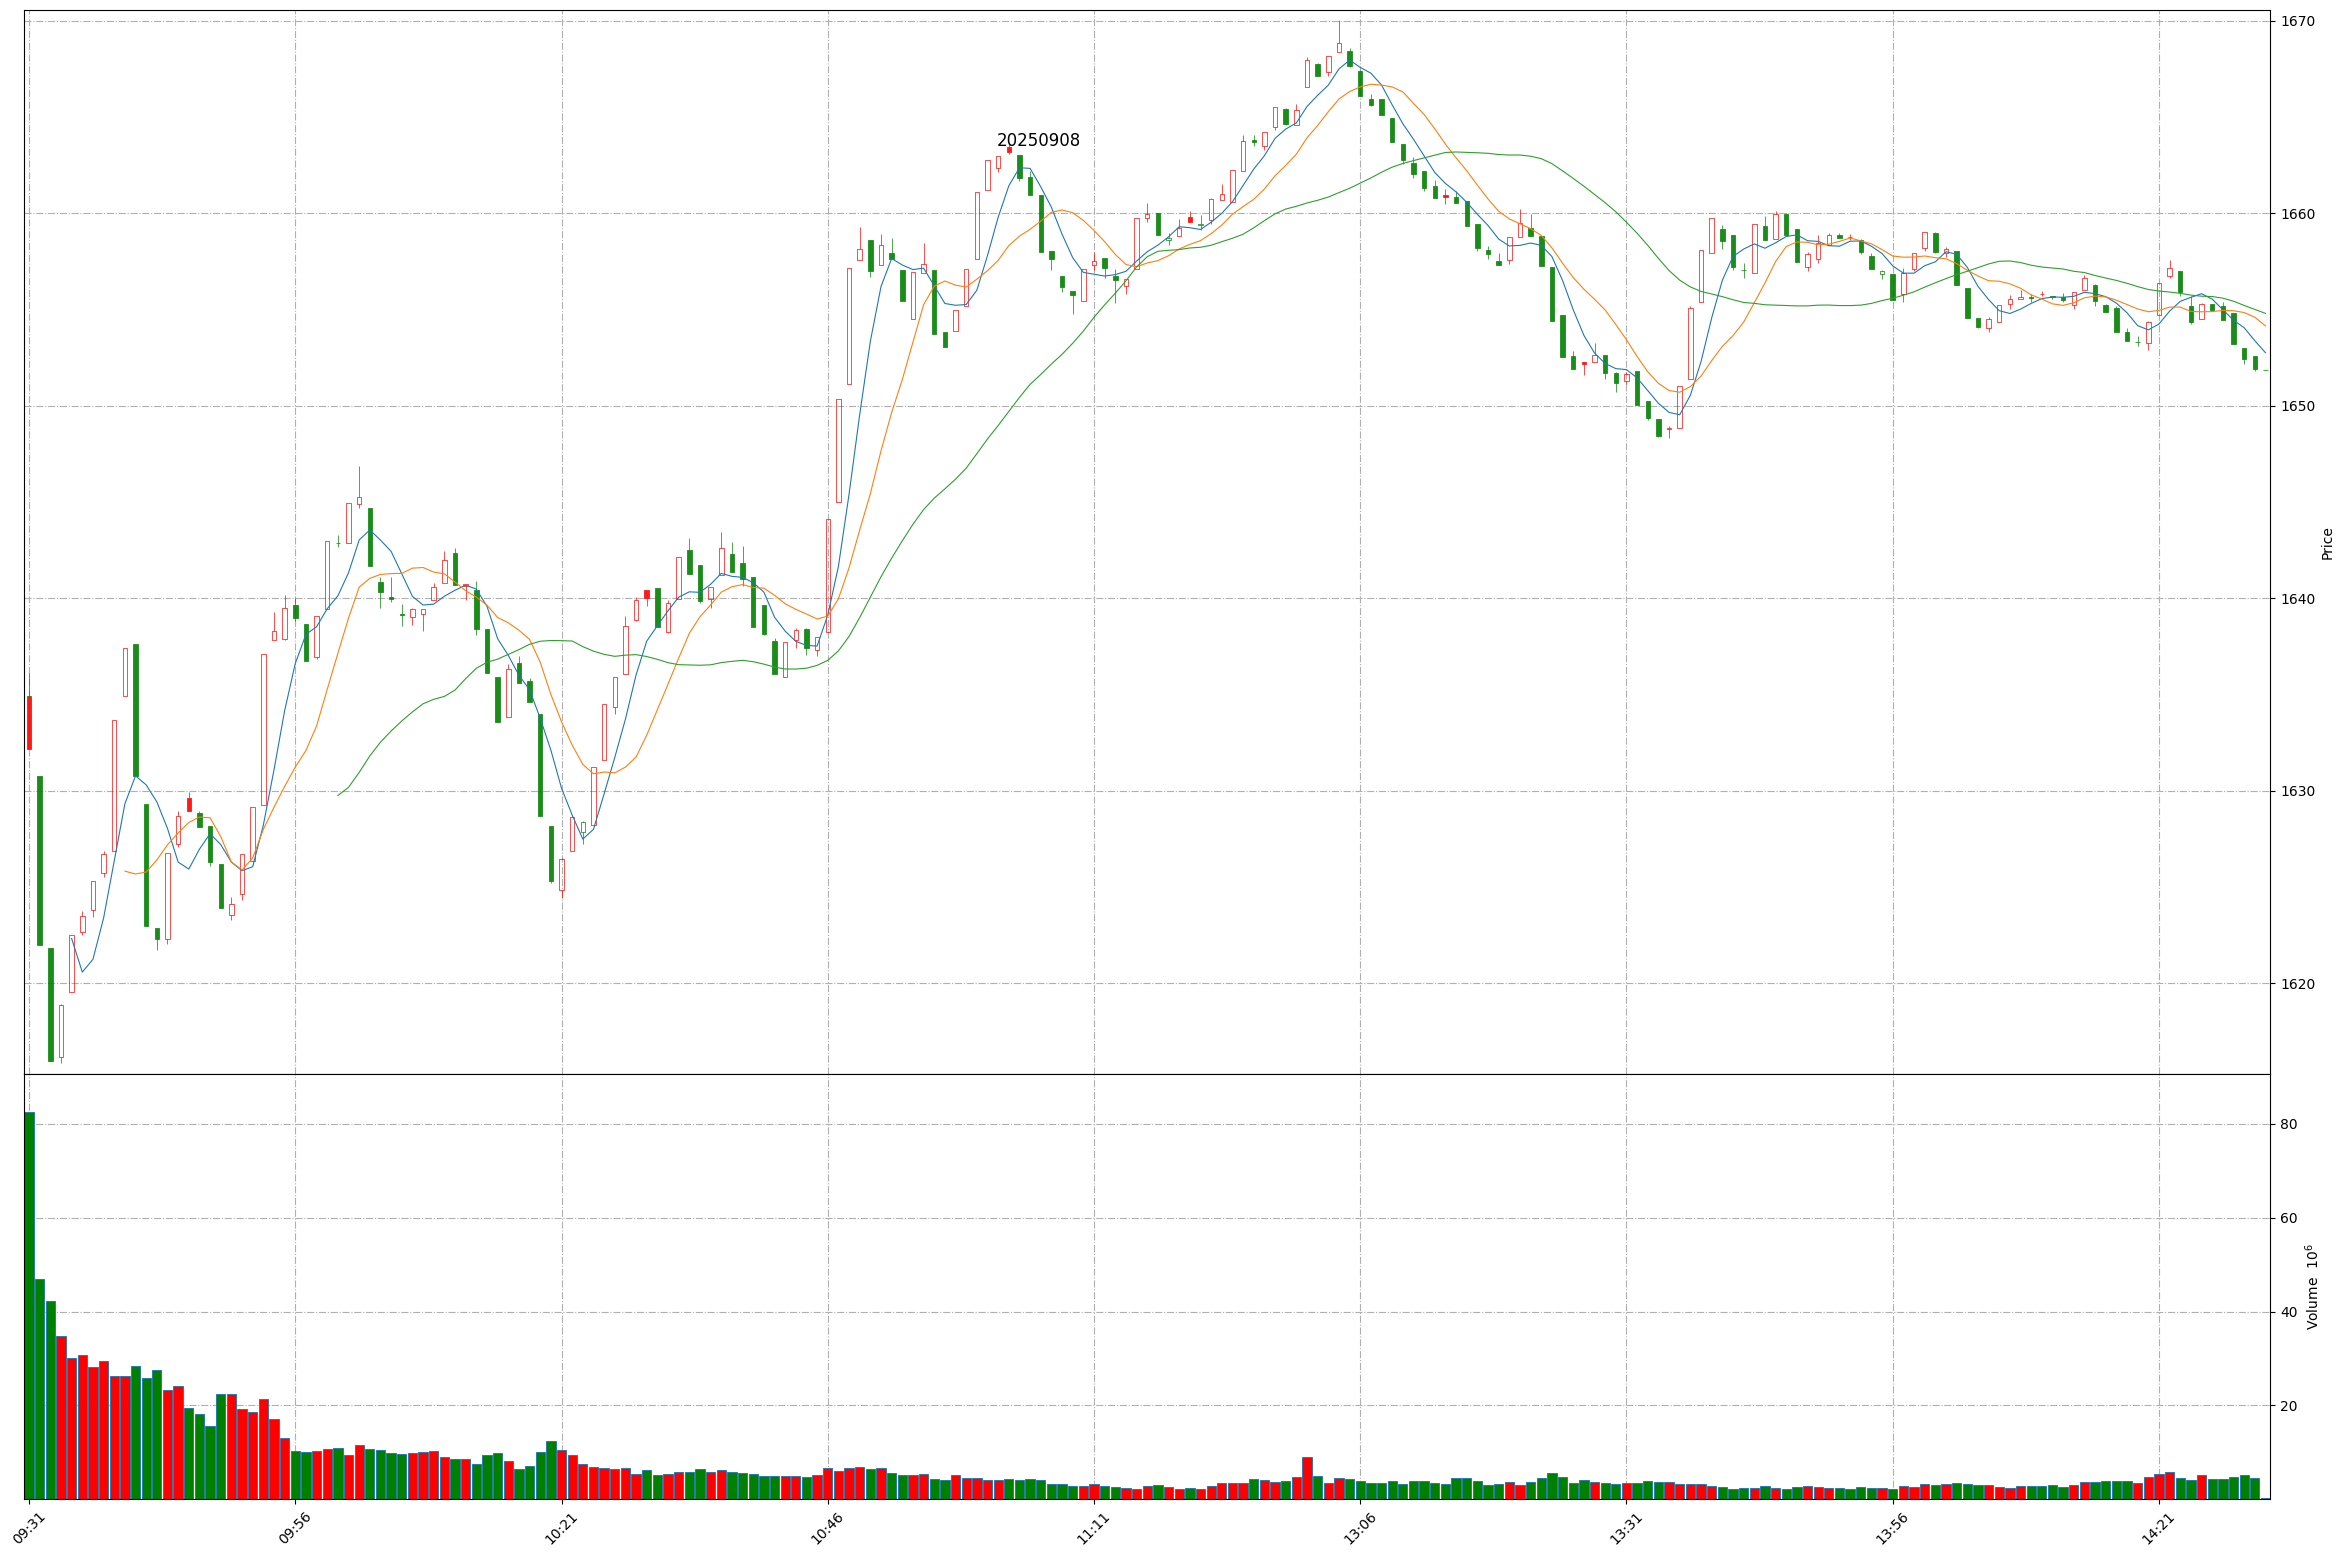
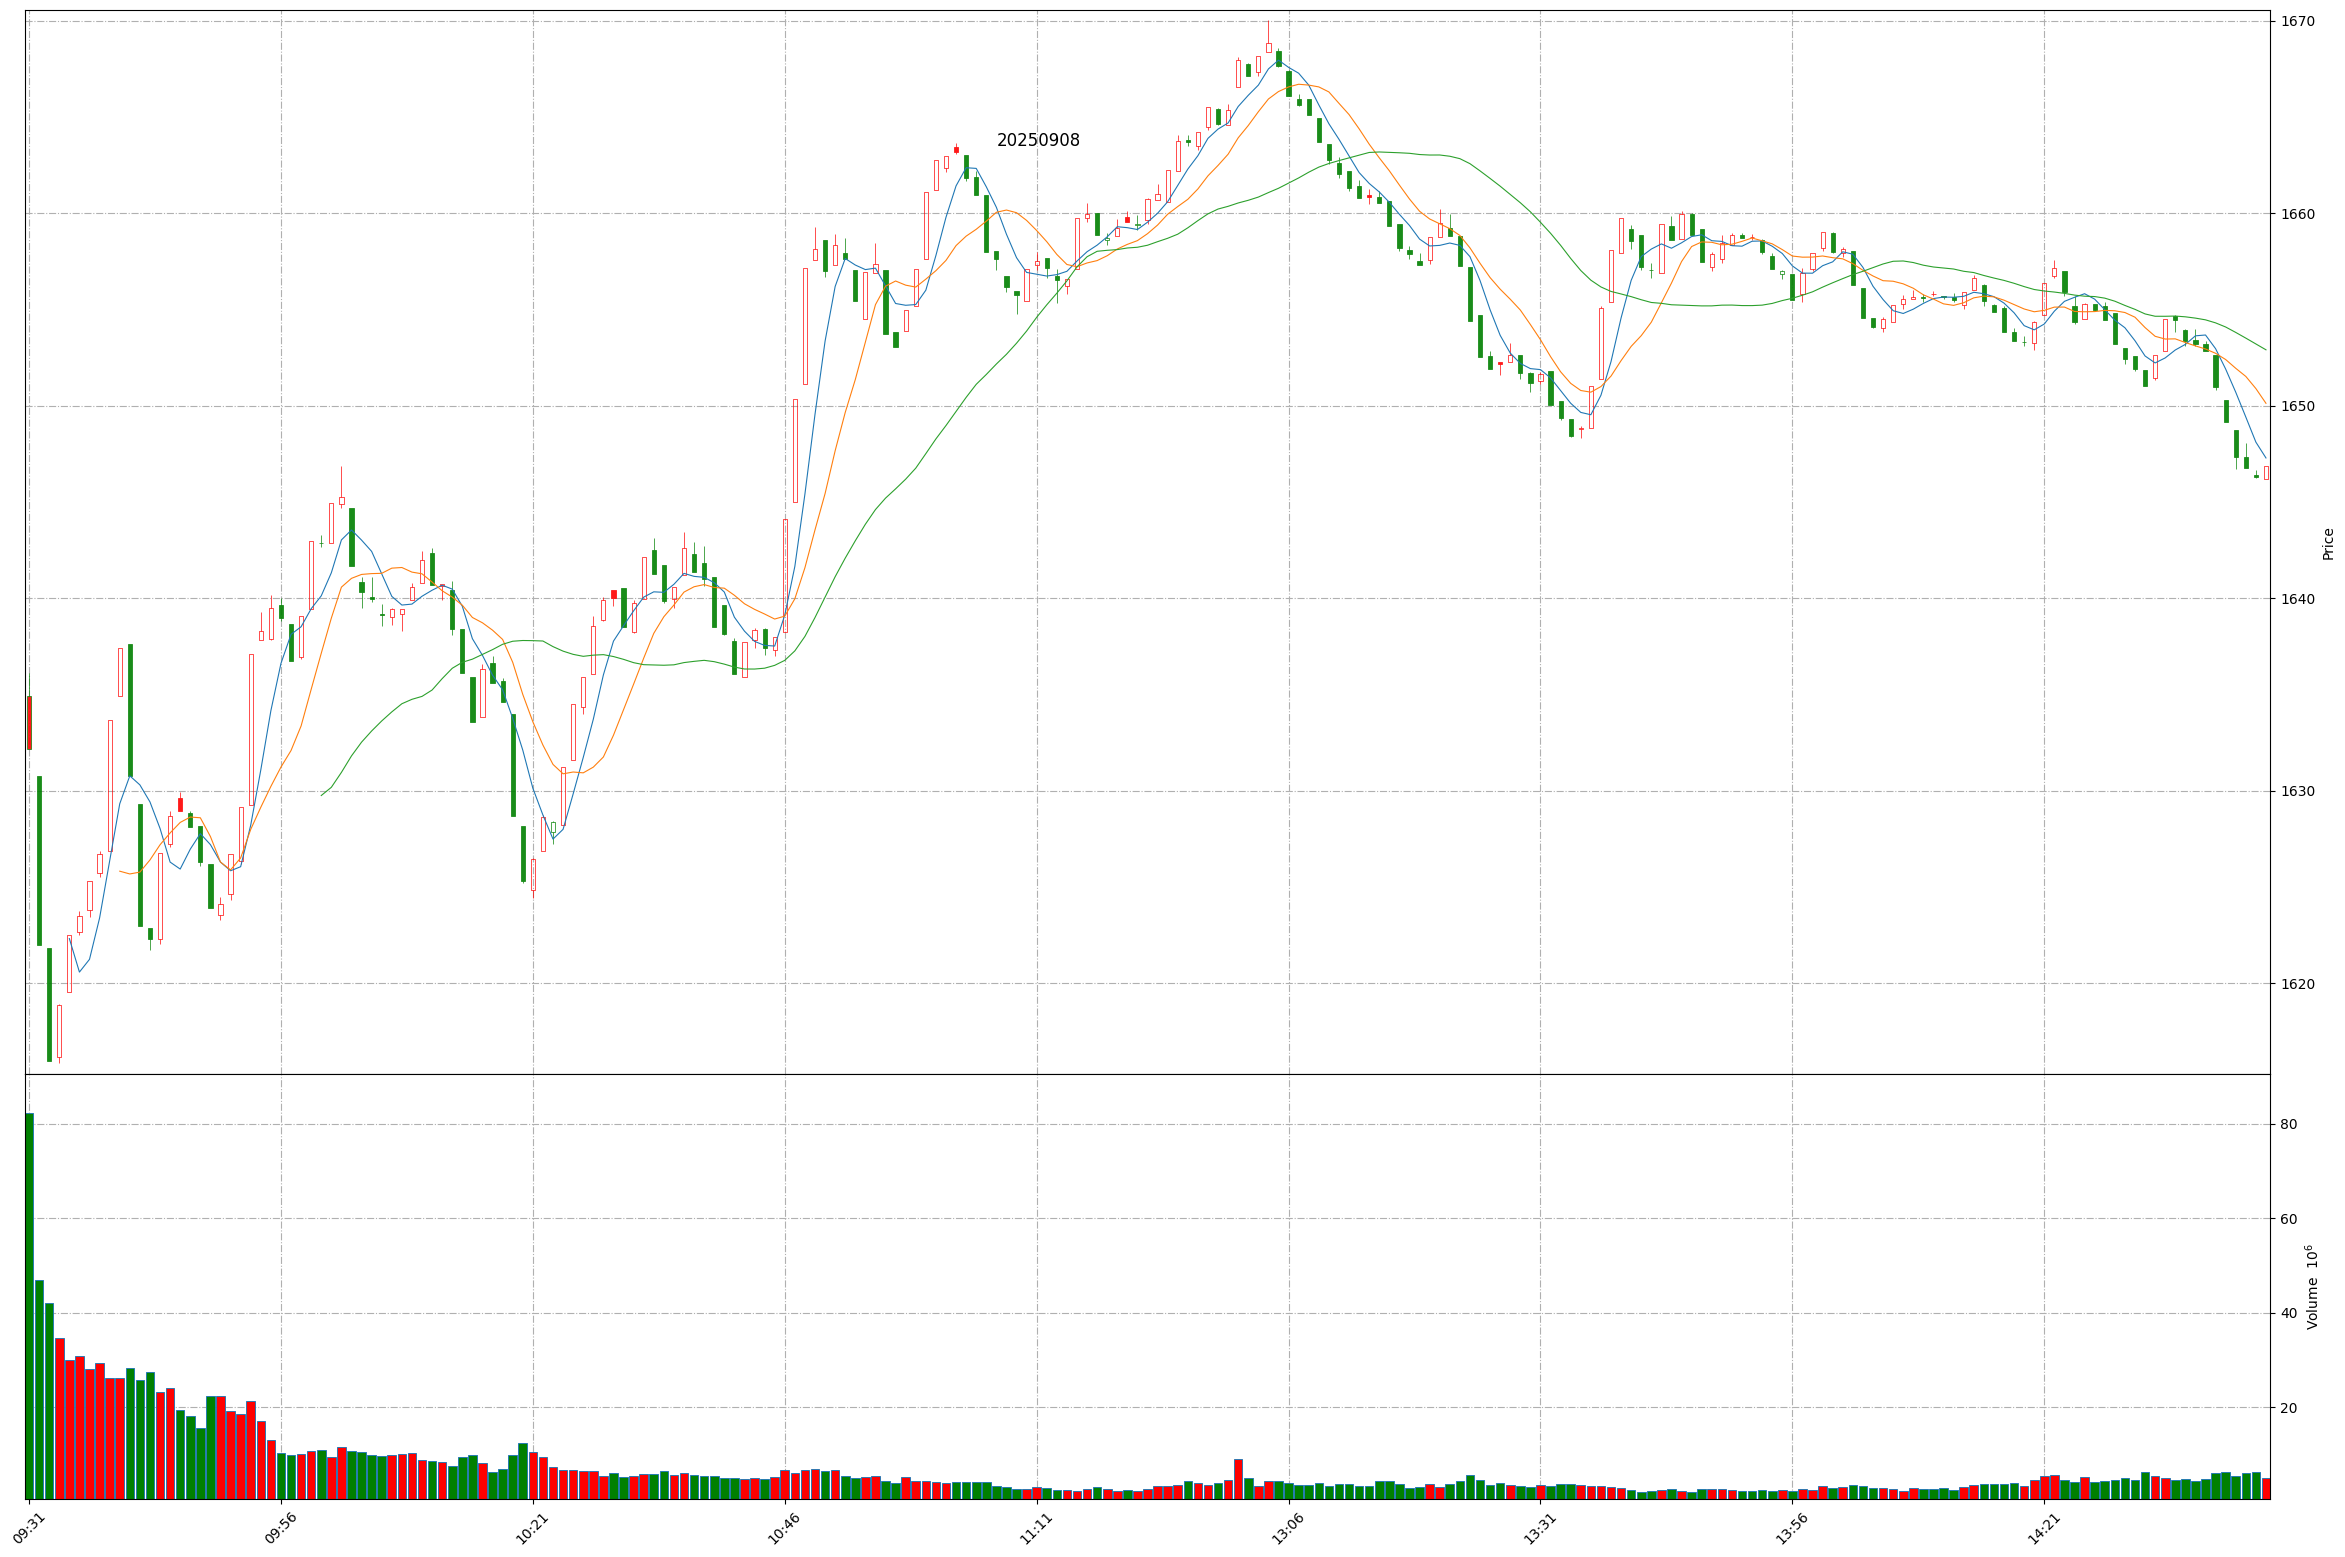
Github action update at 2025-09-08 14:43:03.

diff --git a/README.md b/README.md
@@ -1,11 +1,11 @@
 
 # Daily-A-share-market-quotes 每日 A 股指数（5min 更新）- 20250908
 
-### 上证指数 20250908 14:30
+### 上证指数 20250908 14:43
 ![](./fig/2025/9/20250908-sh000001.png)
 
-### 深证成指 20250908 14:30
+### 深证成指 20250908 14:43
 ![](./fig/2025/9/20250908-sz399001.png)
 
-### 北证50 20250908 14:30
+### 北证50 20250908 14:43
 ![](./fig/2025/9/20250908-bj899050.png)
